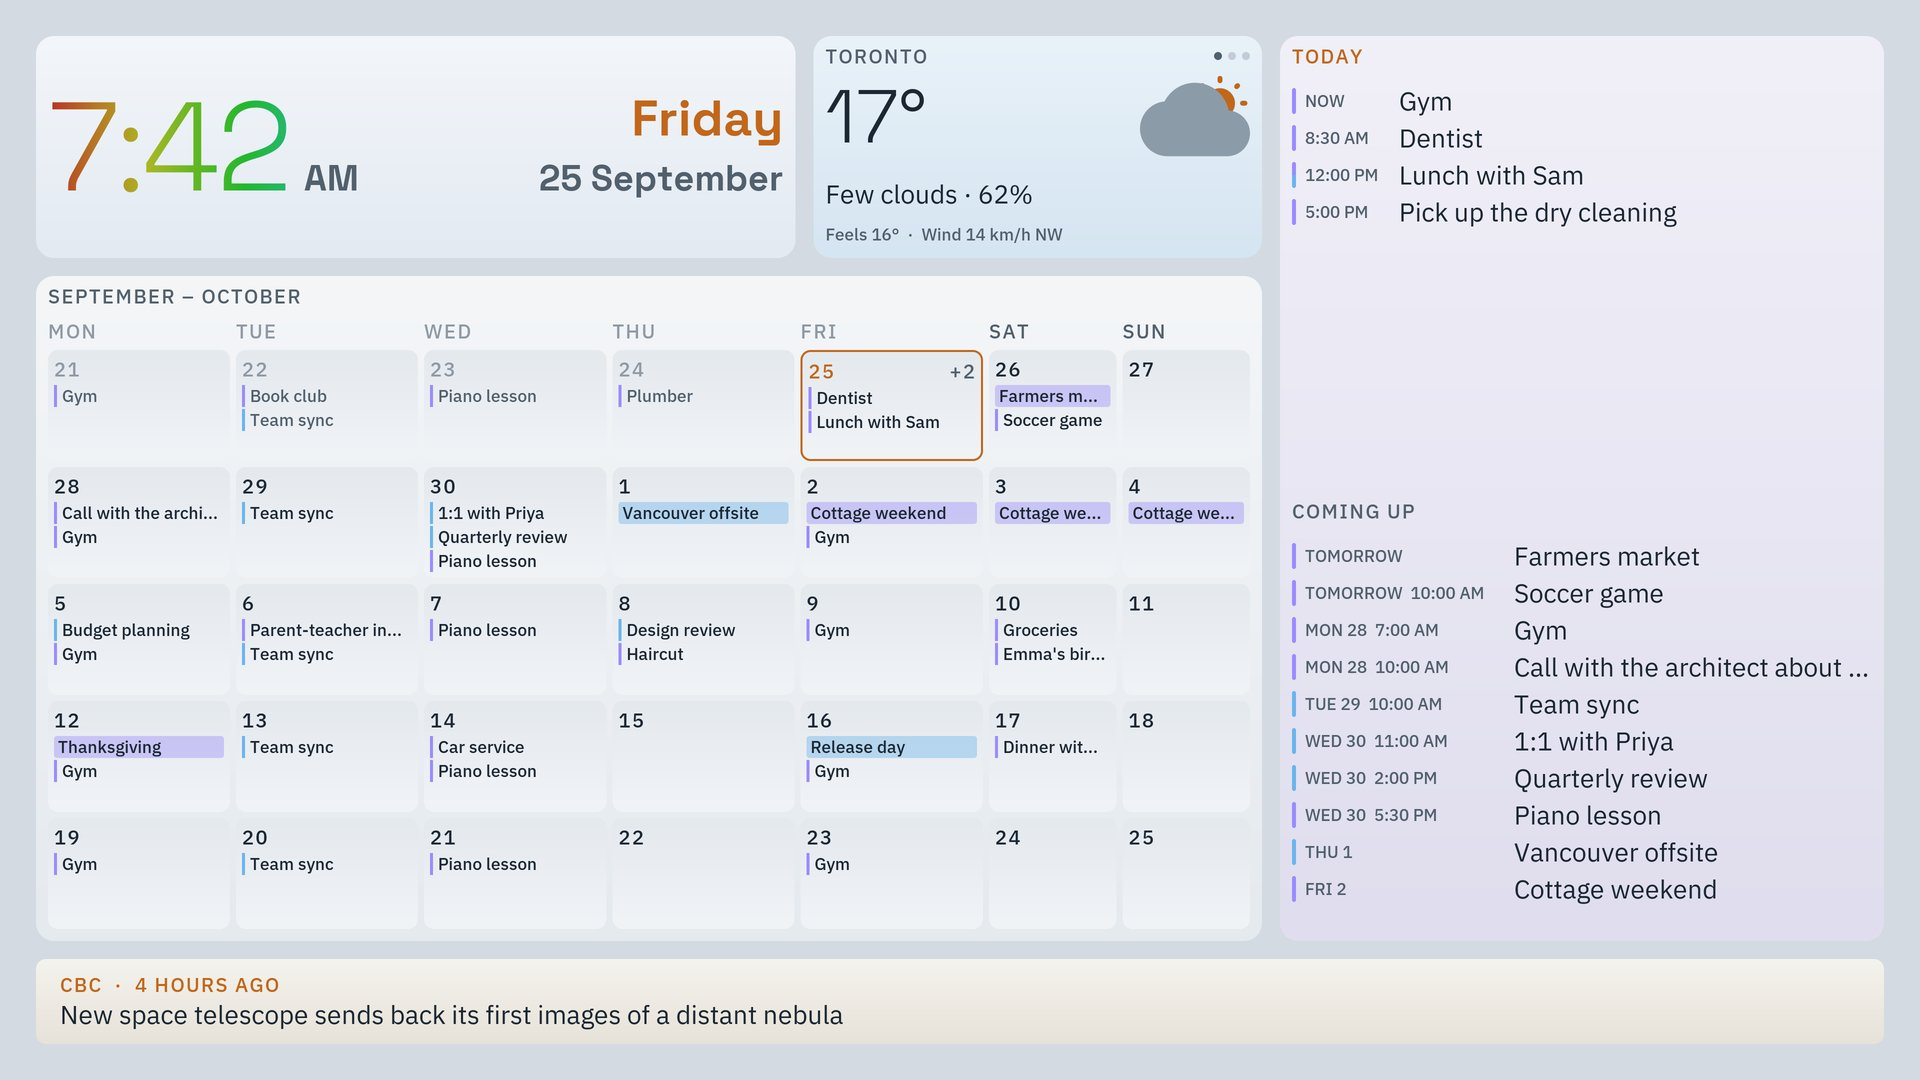
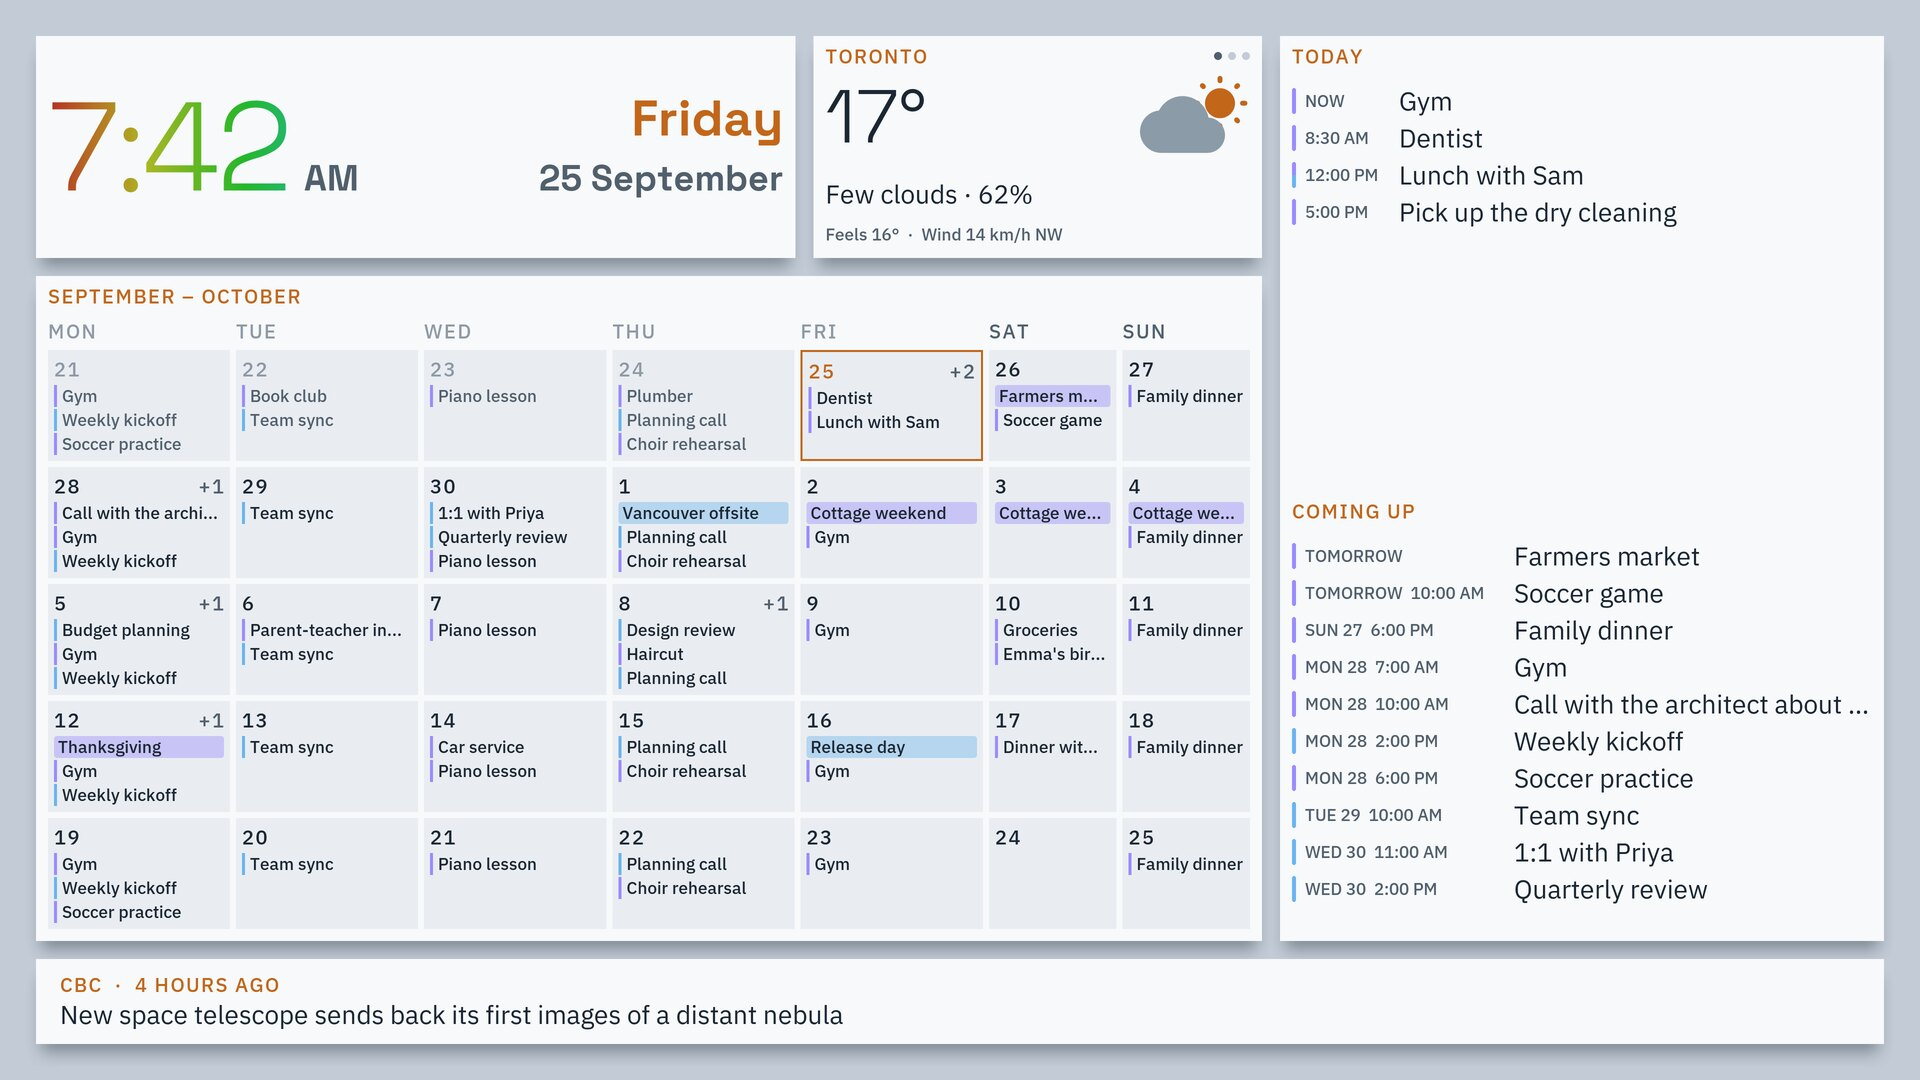
Board screenshots in the new Float and Lines styles
The picker's screens and the hero are Float, with a Style choice to see
each in Lines. The home board is Lines and the cameras board Float; the
business board is unchanged.

Claude-Session: https://claude.ai/code/session_019Ex3RfVADdC9fMguf4ifbv

diff --git a/index.html b/index.html
@@ -68,14 +68,15 @@
     <section class="screens-section section-wrap" id="screens">
       <div class="section-heading centered">
         <h2>Screenshots</h2>
-        <p>Pick a layout, an orientation and a theme.</p>
+        <p>Pick a layout, an orientation, a theme and a style.</p>
       </div>
       <div class="shot-controls">
         <div class="seg" role="group" aria-label="Layout" data-key="layout"><button type="button" data-v="1" aria-pressed="true">Everything</button><button type="button" data-v="2" aria-pressed="false">Photo clock</button><button type="button" data-v="3" aria-pressed="false">Calendar</button></div>
         <div class="seg" role="group" aria-label="Orientation" data-key="orient"><button type="button" data-v="landscape" aria-pressed="true">Landscape</button><button type="button" data-v="portrait" aria-pressed="false">Portrait</button></div>
         <div class="seg" role="group" aria-label="Theme" data-key="theme"><button type="button" data-v="dark" aria-pressed="true">Dark</button><button type="button" data-v="light" aria-pressed="false">Light</button></div>
+        <div class="seg" role="group" aria-label="Style" data-key="style"><button type="button" data-v="float" aria-pressed="true">Float</button><button type="button" data-v="lines" aria-pressed="false">Lines</button></div>
       </div>
-      <figure class="shot-stage" id="stage" data-orient="landscape"><img id="shot" src="assets/screens/landscape-1-dark.jpg" width="1920" height="1080" alt="QRK Board, everything layout, landscape, dark theme" loading="lazy"></figure>
+      <figure class="shot-stage" id="stage" data-orient="landscape"><img id="shot" src="assets/screens/landscape-1-dark.jpg" width="1920" height="1080" alt="QRK Board, everything layout, landscape, dark theme, float style" loading="lazy"></figure>
     </section>
 
     <section class="editor-section section-wrap" id="how-it-works">

diff --git a/script.js b/script.js
@@ -15,11 +15,11 @@ if (toggle && nav) {
 const year = document.querySelector('#year');
 if (year) year.textContent = new Date().getFullYear();
 
-// Screenshot picker: layout, orientation and theme.
+// Screenshot picker: layout, orientation, theme and style.
 (function () {
   const stage = document.getElementById('stage'), img = document.getElementById('shot');
   if (!stage || !img) return;
-  const st = { layout: '1', orient: 'landscape', theme: 'dark' };
+  const st = { layout: '1', orient: 'landscape', theme: 'dark', style: 'float' };
   const names = { '1': 'everything', '2': 'photo clock', '3': 'calendar' };
   document.querySelectorAll('.seg').forEach(seg => seg.addEventListener('click', e => {
     const b = e.target.closest('button'); if (!b) return;
@@ -28,8 +28,8 @@ if (year) year.textContent = new Date().getFullYear();
     const land = st.orient === 'landscape';
     stage.dataset.orient = st.orient;
     img.width = land ? 1920 : 1080; img.height = land ? 1080 : 1920;
-    img.alt = `QRK Board, ${names[st.layout]} layout, ${st.orient}, ${st.theme} theme`;
-    img.src = `assets/screens/${st.orient}-${st.layout}-${st.theme}.jpg`;
+    img.alt = `QRK Board, ${names[st.layout]} layout, ${st.orient}, ${st.theme} theme, ${st.style} style`;
+    img.src = `assets/screens/${st.orient}-${st.layout}-${st.theme}${st.style === 'lines' ? '-lines' : ''}.jpg`;
   }));
 })();
 
